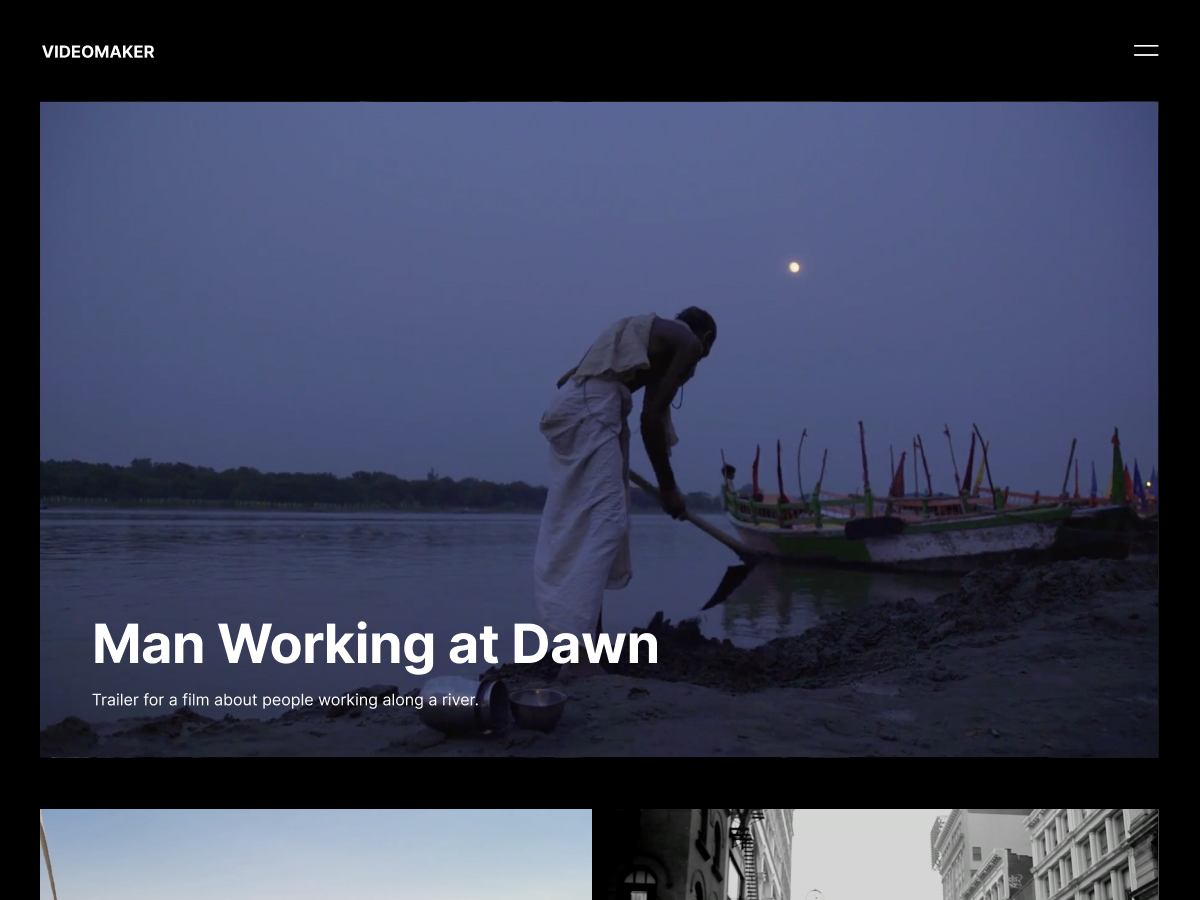
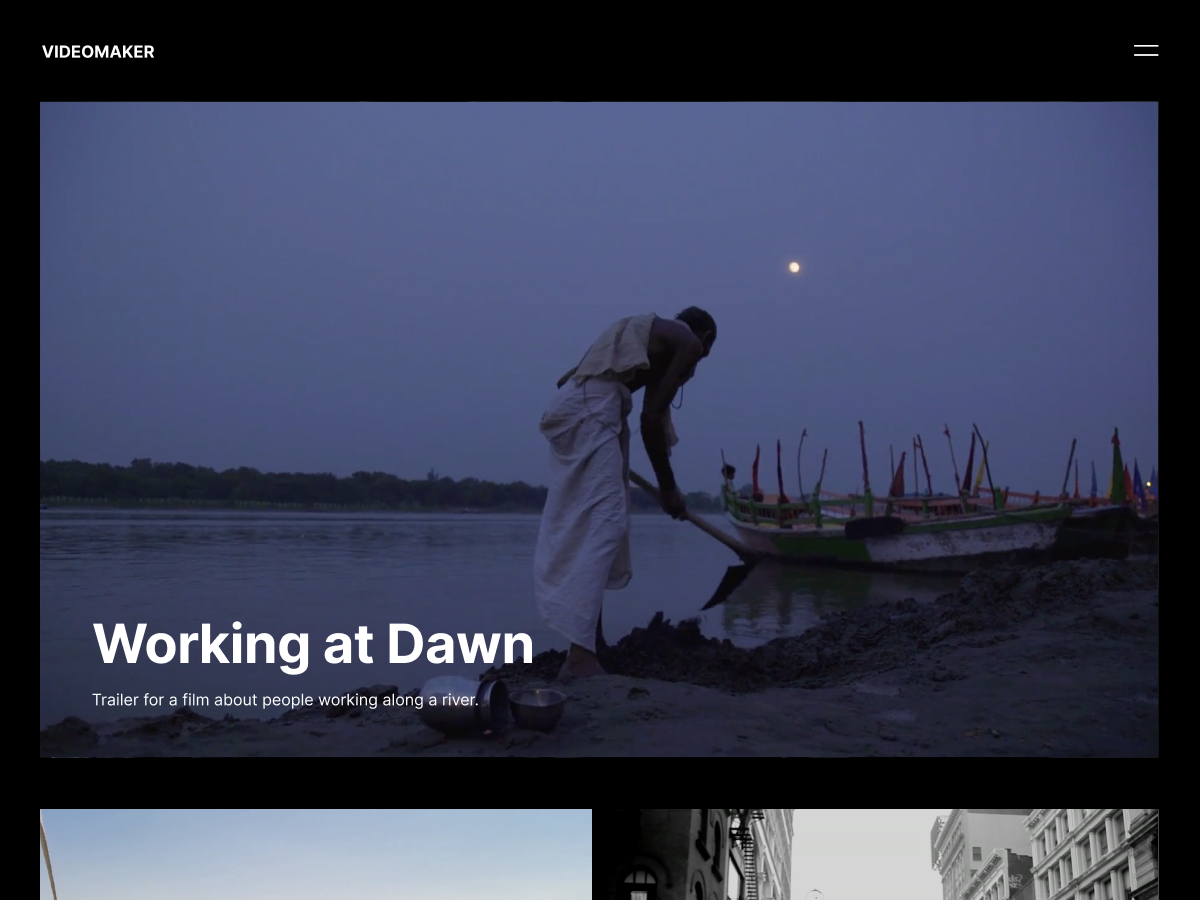
Update title and names in Videomaker screenshot + patterns (#5164)
* Update Videomaker Screenshot

* Update title throughout patterns.

* Change names in a few more patterns.

* Replace more names

Changed region(s): [[0.0617, 0.6844, 0.555, 0.7467]]

diff --git a/videomaker/inc/patterns/post-i-love-you.php b/videomaker/inc/patterns/post-i-love-you.php
@@ -14,6 +14,6 @@ return array(
 	</div></figure>
 	<!-- /wp:embed -->
 	<!-- wp:paragraph {"fontSize":"small"} -->
-	<p class="has-small-font-size">' . esc_html__( 'As nations under the present system are driven to compete with one another for the markets of the world, and as firms or the captains of industry have to scramble for their share of the profits of the markets, so also have the workers to compete with each other—for livelihood.', 'videomaker' ) . '<br><br>—<br><br><strong>' . esc_html__( 'Direction', 'videomaker' ) . '</strong><br>' . esc_html__( 'Dan Andrews', 'videomaker' ) . '<br><br><strong>' . esc_html__( 'Screenplay', 'videomaker' ) . '</strong><br>' . esc_html__( 'Augusta Smith', 'videomaker' ) . '<br><br><strong>' . esc_html__( 'Actors', 'videomaker' ) . '</strong><br>' . esc_html__( 'Akachukwu Elba', 'videomaker' ) . '<br><br><strong>' . esc_html__( 'Camera', 'videomaker' ) . '</strong><br>' . esc_html__( 'Diego Cruz, Helen Smith-Andrews and Dan Andrews', 'videomaker' ) . '<br><br><strong>' . esc_html__( 'Art', 'videomaker' ) . '</strong><br>' . esc_html__( 'Philip Mizrahi', 'videomaker' ) . '<br><br><strong>' . esc_html__( 'Production', 'videomaker' ) . '</strong><br>' . esc_html__( 'Romana Arakelyan', 'videomaker' ) . '<br><br><strong>' . esc_html__( 'Operators', 'videomaker' ) . '</strong><br>' . esc_html__( 'Syd Wyatt and Cameron Madeira', 'videomaker' ) . '<br>' . esc_html__( 'Behind the Camera: Diego Cruz', 'videomaker' ) . '<br><br><strong>' . esc_html__( 'Color Editing and Post-Production', 'videomaker' ) . '<br></strong>' . esc_html__( 'Philip Mizrahi and Tony Sánchez', 'videomaker' ) . '</p>
+	<p class="has-small-font-size">' . esc_html__( 'As nations under the present system are driven to compete with one another for the markets of the world, and as firms or the captains of industry have to scramble for their share of the profits of the markets, so also have the workers to compete with each other—for livelihood.', 'videomaker' ) . '<br><br>—<br><br><strong>' . esc_html__( 'Direction', 'videomaker' ) . '</strong><br>' . esc_html__( 'Amber Andrews', 'videomaker' ) . '<br><br><strong>' . esc_html__( 'Screenplay', 'videomaker' ) . '</strong><br>' . esc_html__( 'Augusta Smith', 'videomaker' ) . '<br><br><strong>' . esc_html__( 'Actors', 'videomaker' ) . '</strong><br>' . esc_html__( 'Akachukwu Elba', 'videomaker' ) . '<br><br><strong>' . esc_html__( 'Camera', 'videomaker' ) . '</strong><br>' . esc_html__( 'Diego Cruz, Helen Smith-Andrews and Amber Andrews', 'videomaker' ) . '<br><br><strong>' . esc_html__( 'Art', 'videomaker' ) . '</strong><br>' . esc_html__( 'Philip Mizrahi', 'videomaker' ) . '<br><br><strong>' . esc_html__( 'Production', 'videomaker' ) . '</strong><br>' . esc_html__( 'Romana Arakelyan', 'videomaker' ) . '<br><br><strong>' . esc_html__( 'Operators', 'videomaker' ) . '</strong><br>' . esc_html__( 'Syd Wyatt and Cameron Madeira', 'videomaker' ) . '<br>' . esc_html__( 'Behind the Camera: Diego Cruz', 'videomaker' ) . '<br><br><strong>' . esc_html__( 'Color Editing and Post-Production', 'videomaker' ) . '<br></strong>' . esc_html__( 'Philip Mizrahi and Tony Sánchez', 'videomaker' ) . '</p>
 	<!-- /wp:paragraph -->',
 );

diff --git a/videomaker/inc/patterns/film-poster.php b/videomaker/inc/patterns/film-poster.php
@@ -31,7 +31,7 @@ return array(
 		<!-- /wp:paragraph -->
 
 		<!-- wp:paragraph {"align":"center","textColor":"foreground","style":{"typography":{"lineHeight":"1"}}} -->
-		<p class="has-text-align-center has-foreground-color has-text-color" style="line-height:1">' . wp_kses_post( __( 'A Film by <strong>Gary Han</strong>', 'videomaker' ) ) . '</p>
+		<p class="has-text-align-center has-foreground-color has-text-color" style="line-height:1">' . wp_kses_post( __( 'A Film by <strong>Mary Han</strong>', 'videomaker' ) ) . '</p>
 		<!-- /wp:paragraph --></div></div>
 		<!-- /wp:cover -->
 
@@ -64,7 +64,7 @@ return array(
 		<!-- wp:columns {"align":"wide"} -->
 		<div class="wp-block-columns alignwide"><!-- wp:column {"width":"100%"} -->
 		<div class="wp-block-column" style="flex-basis:100%"><!-- wp:paragraph {"align":"center","style":{"typography":{"fontSize":"12px"}}} -->
-		<p class="has-text-align-center" style="font-size:12px">' . esc_html__( 'Videomaker Collective Presents In Association with HANO Direction by Dan Andrews Screenplay by Augusta Smith Camera Diego Cruz, Helen Smith-Andrews and Dan Andrews Art Philip Mizrahi Production Romana Arakelyan Operators Syd Wyatt and Cameron Madeira Behind the Camera Diego Cruz Color Editing and Post-Production Philip Mizrahi and Tony Sánchez Videomaker Collective Presents In Association with HANO Direction by Dan Andrews Screenplay by Augusta Smith Camera Diego Cruz, Helen Smith-Andrews and Dan Andrews Art Philip Mizrahi Production Romana Arakelyan Operators Syd Wyatt and Cameron Madeira Behind the Camera Diego Cruz Color Editing and Post-Production Philip Mizrahi and Tony Sánchez', 'videomaker' ) . '</p>
+		<p class="has-text-align-center" style="font-size:12px">' . esc_html__( 'Videomaker Collective Presents In Association with HANO Direction by Amber Andrews Screenplay by Augusta Smith Camera Diego Cruz, Helen Smith-Andrews and Amber Andrews Art Philip Mizrahi Production Romana Arakelyan Operators Syd Wyatt and Cameron Madeira Behind the Camera Diego Cruz Color Editing and Post-Production Philip Mizrahi and Tony Sánchez Videomaker Collective Presents In Association with HANO Direction by Amber Andrews Screenplay by Augusta Smith Camera Diego Cruz, Helen Smith-Andrews and Amber Andrews Art Philip Mizrahi Production Romana Arakelyan Operators Syd Wyatt and Cameron Madeira Behind the Camera Diego Cruz Color Editing and Post-Production Philip Mizrahi and Tony Sánchez', 'videomaker' ) . '</p>
 		<!-- /wp:paragraph --></div>
 		<!-- /wp:column --></div>
 		<!-- /wp:columns --></div>

diff --git a/videomaker/inc/patterns/film-credits.php b/videomaker/inc/patterns/film-credits.php
@@ -13,7 +13,7 @@ return array(
 	<!-- /wp:spacer -->
 
 	<!-- wp:paragraph {"align":"center","style":{"typography":{"lineHeight":"1.3"}},"fontSize":"medium"} -->
-	<p class="has-text-align-center has-medium-font-size" style="line-height:1.3">' . esc_html__( 'Based on the novel “Man Working at Dawn” by', 'videomaker' ) . '</p>
+	<p class="has-text-align-center has-medium-font-size" style="line-height:1.3">' . esc_html__( 'Based on the novel “Working at Dawn” by', 'videomaker' ) . '</p>
 	<!-- /wp:paragraph -->
 
 	<!-- wp:paragraph {"align":"center","style":{"typography":{"lineHeight":"1.3"}},"fontSize":"large"} -->
@@ -29,7 +29,7 @@ return array(
 	<!-- /wp:paragraph -->
 
 	<!-- wp:paragraph {"align":"center","style":{"typography":{"lineHeight":"1.3"}},"fontSize":"large"} -->
-	<p class="has-text-align-center has-large-font-size" style="line-height:1.3">' . wp_kses_post( __( 'AUGUSTA SMITH<br>DAN ANDREWS<br>GARY HAN', 'videomaker' ) ) . '</p>
+	<p class="has-text-align-center has-large-font-size" style="line-height:1.3">' . wp_kses_post( __( 'AUGUSTA SMITH<br>AMBER ANDREWS<br>MARY HAN', 'videomaker' ) ) . '</p>
 	<!-- /wp:paragraph -->
 
 	<!-- wp:spacer {"height":20} -->
@@ -41,7 +41,7 @@ return array(
 	<!-- /wp:paragraph -->
 
 	<!-- wp:paragraph {"align":"center","style":{"typography":{"lineHeight":"1.3"}},"fontSize":"large"} -->
-	<p class="has-text-align-center has-large-font-size" style="line-height:1.3">' . esc_html__( 'GARY HAN', 'videomaker' ) . '</p>
+	<p class="has-text-align-center has-large-font-size" style="line-height:1.3">' . esc_html__( 'MARY HAN', 'videomaker' ) . '</p>
 	<!-- /wp:paragraph -->
 
 	<!-- wp:spacer {"height":50} -->

diff --git a/videomaker/inc/patterns/header-names-list-and-grid.php b/videomaker/inc/patterns/header-names-list-and-grid.php
@@ -18,7 +18,7 @@ return array(
 	<div class="wp-block-column is-vertically-aligned-top" style="flex-basis:46.67%"><!-- wp:site-title /-->
 
 	<!-- wp:heading {"level":3,"style":{"typography":{"fontWeight":"300"}}} -->
-	<h3 style="font-weight:300">' . esc_html__( 'Augusta Smith', 'videomaker' ) . '<br>' . esc_html__( 'Dan Andrews', 'videomaker' ) . '<br>' . esc_html__( 'Syd Wyatt', 'videomaker' ) . '<br>' . esc_html__( 'Philip Mizrahi', 'videomaker' ) . '<br>' . esc_html__( 'Tony Sánchez', 'videomaker' ) . '<br>' . esc_html__( 'Romana Arak', 'videomaker' ) . '</h3>
+	<h3 style="font-weight:300">' . esc_html__( 'Augusta Smith', 'videomaker' ) . '<br>' . esc_html__( 'Amber Andrews', 'videomaker' ) . '<br>' . esc_html__( 'Syd Wyatt', 'videomaker' ) . '<br>' . esc_html__( 'Philip Mizrahi', 'videomaker' ) . '<br>' . esc_html__( 'Tony Sánchez', 'videomaker' ) . '<br>' . esc_html__( 'Romana Arak', 'videomaker' ) . '</h3>
 	<!-- /wp:heading --></div>
 	<!-- /wp:column -->
 

diff --git a/videomaker/inc/patterns/about.php b/videomaker/inc/patterns/about.php
@@ -15,7 +15,7 @@ return array(
 		<!-- wp:columns {"align":"wide"} -->
 		<div class="wp-block-columns alignwide"><!-- wp:column -->
 		<div class="wp-block-column"><!-- wp:heading {"level":3,"style":{"typography":{"fontWeight":"300"}},"fontSize":"large"} -->
-		<h3 class="has-large-font-size" style="font-weight:300">' . esc_html__( 'Gary Han is a award-winning creative director, designer, photographer and visual artist based in Singapore.', 'videomaker' ) . '</h3>
+		<h3 class="has-large-font-size" style="font-weight:300">' . esc_html__( 'Mary Han is a award-winning creative director, designer, photographer and visual artist based in Singapore.', 'videomaker' ) . '</h3>
 		<!-- /wp:heading --></div>
 		<!-- /wp:column --></div>
 		<!-- /wp:columns -->

diff --git a/videomaker/inc/patterns/footer.php b/videomaker/inc/patterns/footer.php
@@ -17,7 +17,7 @@ return array(
 
 	<!-- wp:column -->
 	<div class="wp-block-column"><!-- wp:paragraph {"align":"right","style":{"typography":{"lineHeight":1.4}},"fontSize":"extra-small"} -->
-	<p class="has-text-align-right has-extra-small-font-size" style="line-height:1.4">'. esc_html__( '© Gary Han 2021', 'videomaker' ) . '<br>' . esc_html__( 'Creative Director', 'videomaker' ) . '</p>
+	<p class="has-text-align-right has-extra-small-font-size" style="line-height:1.4">'. esc_html__( '© Mary Han 2021', 'videomaker' ) . '<br>' . esc_html__( 'Creative Director', 'videomaker' ) . '</p>
 	<!-- /wp:paragraph --></div>
 	<!-- /wp:column --></div>
 	<!-- /wp:columns -->',

diff --git a/videomaker/inc/patterns/header-description-and-grid-of-projects.php b/videomaker/inc/patterns/header-description-and-grid-of-projects.php
@@ -38,7 +38,7 @@ return array(
 		<!-- /wp:embed -->
 
 		<!-- wp:heading {"level":4,"className":"wp-embed-aspect-16-9 wp-has-aspect-ratio"} -->
-		<h4 class="wp-embed-aspect-16-9 wp-has-aspect-ratio">' . esc_html__( 'Man Working at Dawn', 'videomaker' ) . '</h4>
+		<h4 class="wp-embed-aspect-16-9 wp-has-aspect-ratio">' . esc_html__( 'Working at Dawn', 'videomaker' ) . '</h4>
 		<!-- /wp:heading --></div>
 		<!-- /wp:column -->
 

diff --git a/videomaker/inc/patterns/description.php b/videomaker/inc/patterns/description.php
@@ -13,7 +13,7 @@ return array(
 	<!-- /wp:spacer -->
 
 	<!-- wp:paragraph {"align":"center","fontSize":"large"} -->
-	<p class="has-text-align-center has-large-font-size">' . esc_html__( 'Man Working at Dawn', 'videomaker' ) . '</p>
+	<p class="has-text-align-center has-large-font-size">' . esc_html__( 'Working at Dawn', 'videomaker' ) . '</p>
 	<!-- /wp:paragraph -->
 
 	<!-- wp:columns {"isStackedOnMobile":false} -->

diff --git a/videomaker/inc/patterns/pattern-grid.php b/videomaker/inc/patterns/pattern-grid.php
@@ -17,7 +17,7 @@ return array(
 					<!-- /wp:embed -->
 
 					<!-- wp:heading {"level":4,"style":{"spacing":{"margin":{"bottom":"10px"}}}} -->
-					<h4 style="margin-bottom:10px">' . esc_html__( 'Man Working at Dawn', 'videomaker' ) . '</h4>
+					<h4 style="margin-bottom:10px">' . esc_html__( 'Working at Dawn', 'videomaker' ) . '</h4>
 					<!-- /wp:heading -->
 
 					<!-- wp:paragraph -->

diff --git a/videomaker/inc/patterns/pattern-offset-project-grid.php b/videomaker/inc/patterns/pattern-offset-project-grid.php
@@ -21,7 +21,7 @@ return array(
 	<!-- wp:group -->
 	<div class="wp-block-group">
 	<!-- wp:heading {"level":4} -->
-	<h4>' . esc_html__( 'Man Working at Dawn', 'videomaker' ) . '</h4>
+	<h4>' . esc_html__( 'Working at Dawn', 'videomaker' ) . '</h4>
 	<!-- /wp:heading -->
 
 	<!-- wp:paragraph -->

diff --git a/videomaker/inc/patterns/pattern-two-posts-with-excerpt.php b/videomaker/inc/patterns/pattern-two-posts-with-excerpt.php
@@ -23,7 +23,7 @@ return array(
 	<div class="wp-block-column">
 
 	<!-- wp:heading {"level":4} -->
-	<h4>' . esc_html__( 'Man Working at Dawn', 'videomaker' ) . '</h4>
+	<h4>' . esc_html__( 'Working at Dawn', 'videomaker' ) . '</h4>
 	<!-- /wp:heading -->
 
 	</div>
